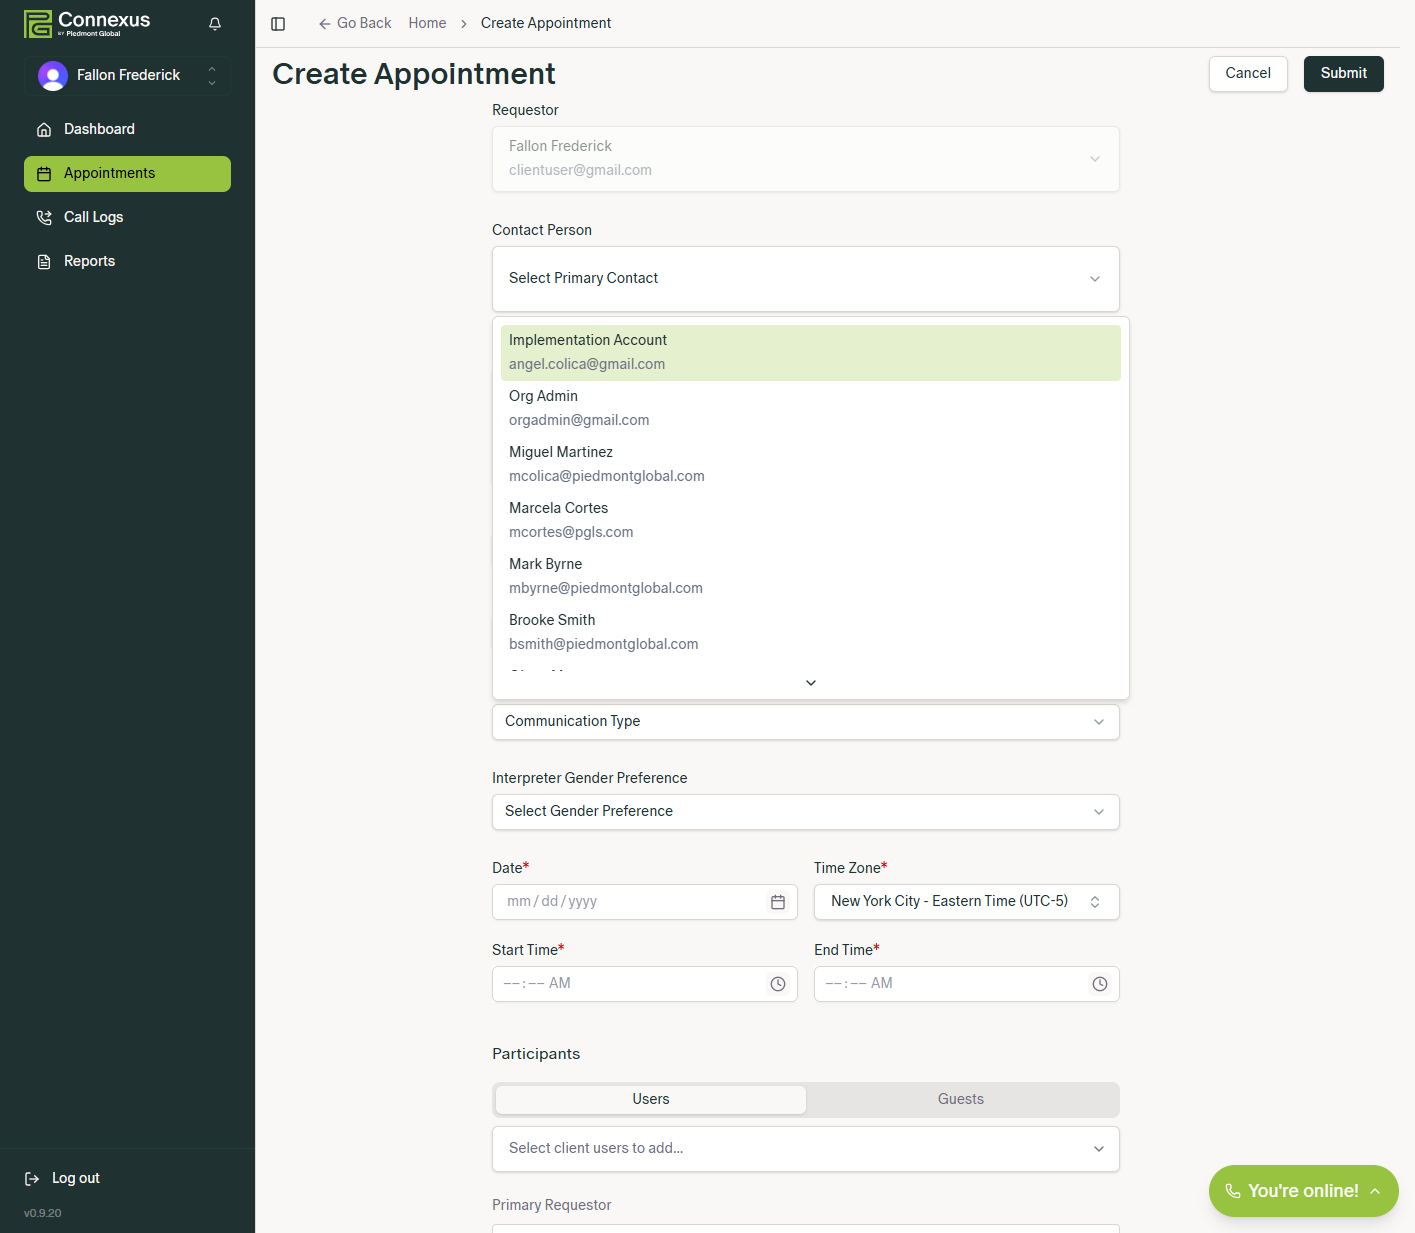
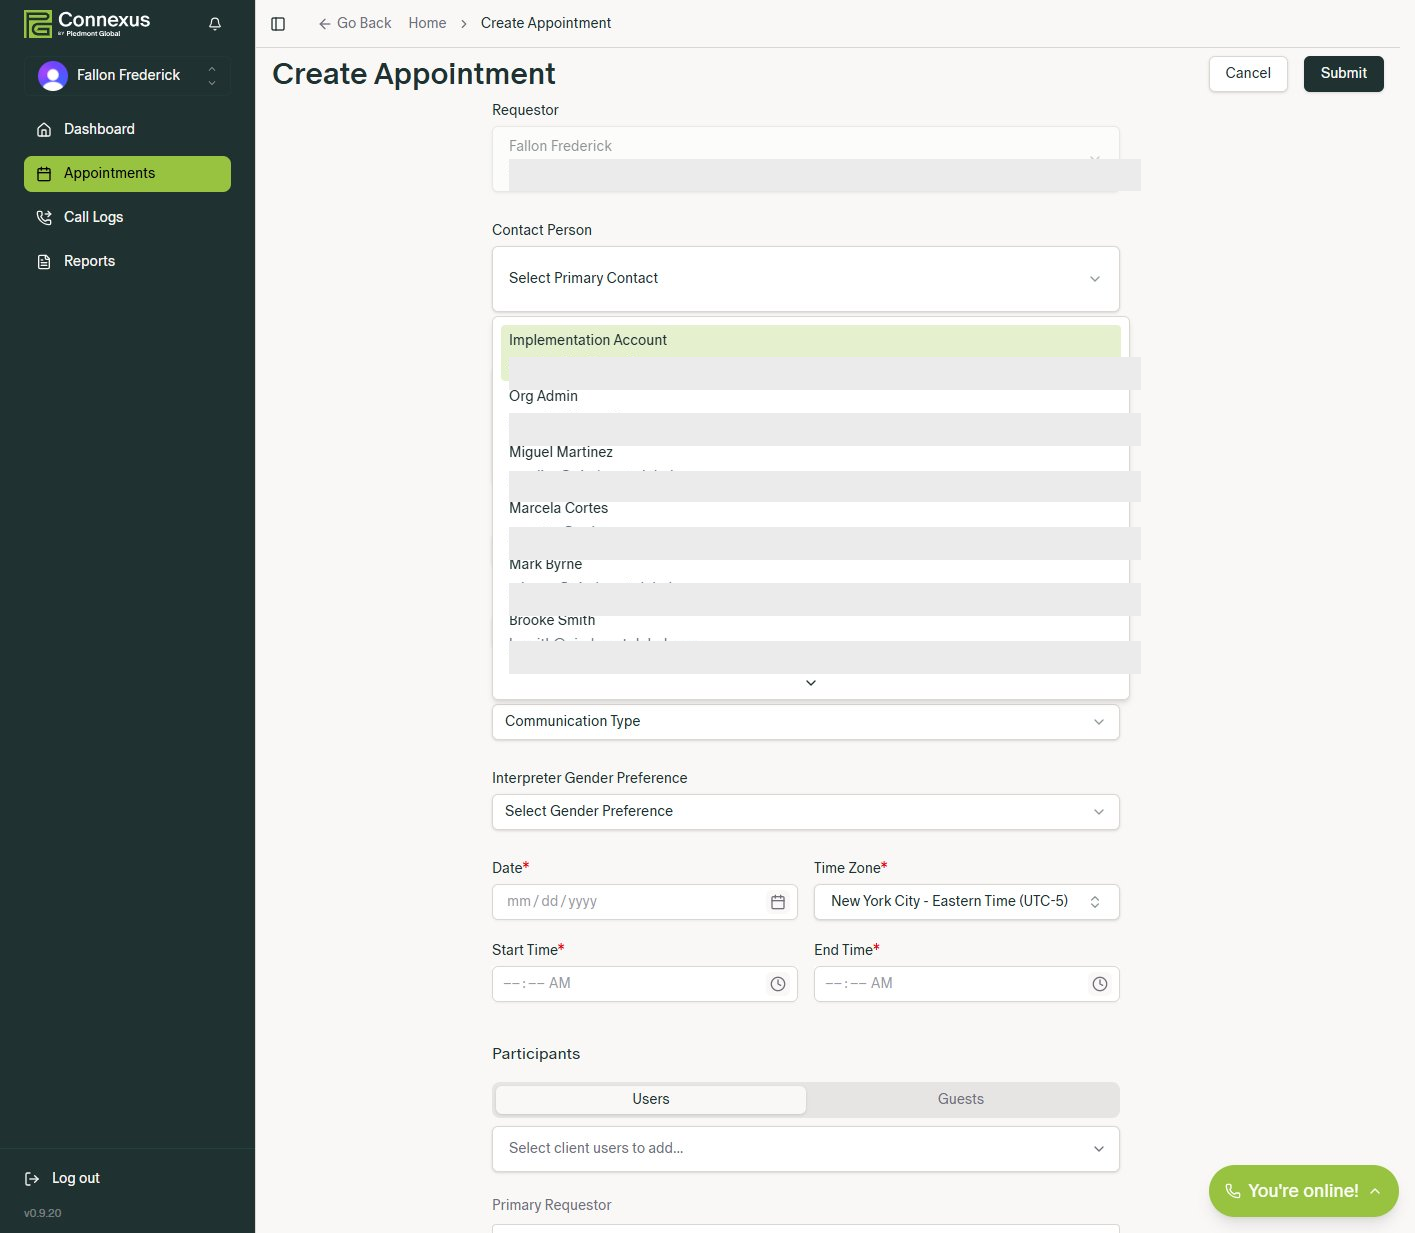
Update Connexus assets and styles. Replaced the qualified interpreter image, removed outdated test and users roster images, added a new scale utility class for 1.22, and updated the image class on the Connexus page for improved styling.

diff --git a/assets/css/output.css b/assets/css/output.css
@@ -1441,6 +1441,9 @@
   .scale-\[1\.16\] {
     scale: 1.16;
   }
+  .scale-\[1\.22\] {
+    scale: 1.22;
+  }
   .scale-\[1\.34\] {
     scale: 1.34;
   }

diff --git a/pages/connexus.php b/pages/connexus.php
@@ -69,6 +69,7 @@ $features2 = [
     'cta'     => null,
     'img_src' => get_template_directory_uri() . '/assets/connexus/connexus_one_platform_dark.svg',
     'img_alt' => 'One Connexus platform unifying every interpretation modality',
+    'img_class' => 'scale-[1.22] !opacity-100',
     'glow'    => 'rgba(92,195,250,.20)',
   ],
   [
